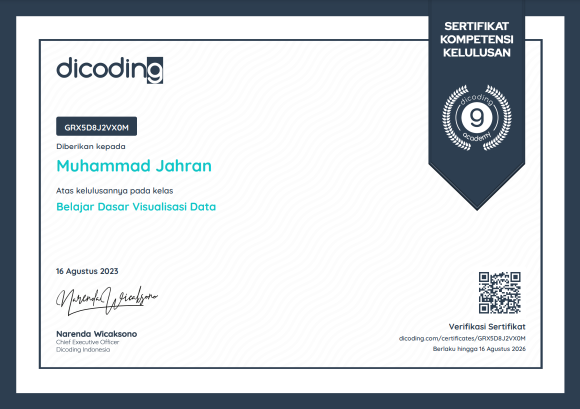
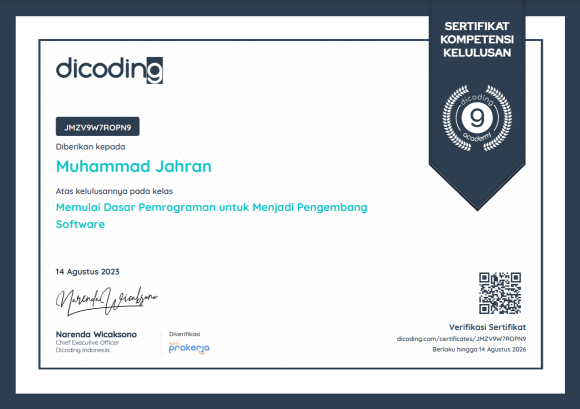
update

diff --git a/index.html b/index.html
@@ -75,13 +75,15 @@
 
                     <div class="tab-contents active-tab" id="skills">
                         <ul>
-                            <li><span>HTML</span><br>Coming Soon</li>
-                            <li><span>CSS</span><br>Coming Soon</li>
+                            <li><span>HTML</span></li>
+                            <li><span>CSS</span></li>
                         </ul>
                     </div>
 
                     <div class="tab-contents" id="experience">
-                        <h3>Coming Soon</h3>
+                        <ul>
+                            <li><span>IDN Mengajar</span><br>SMK Taruna Bangsa Bekasi</li>
+                        </ul>
                     </div>
 
                     <div class="tab-contents" id="school">
@@ -105,24 +107,31 @@
             <h2 class="cer">My Certificate</h2>
             <div class="crtf-list">
                 <div class="crtf">
-                    <img src="assets/images/Logic.png">
+                    <img src="assets/images/PLI.png">
                     <div class="layer">
-                        <h3><span class="color">P</span>rogramming Logic</h3>
-                        <p>I got a Programming Logic<br>certificate from Dicoding</p>
+                        <h3><span class="color">P</span>rogramming Logic Introduction</h3>
+                        <p>I got a Programming Logic Introduction<br>certificate from Dicoding</p>
                     </div>
                 </div>
                 <div class="crtf">
                     <img src="assets/images/Software.png">
                     <div class="layer">
-                        <h3><span class="color">D</span>ata Visualization</h3>
-                        <p>I got a Data Visualization<br>certificate from Dicoding</p>
+                        <h3><span class="color">S</span>oftware Developer</h3>
+                        <p>I got a Software Developer<br>certificate from Dicoding</p>
                     </div>
                 </div>
                 <div class="crtf">
-                    <img src="assets/images/VD.png">
+                    <img src="assets/images/Basic Website Programming.png">
                     <div class="layer">
-                        <h3><span class="color">S</span>oftware Developer</h3>
-                        <p>I got a Software Developer<br>certificate from Dicoding</p>
+                        <h3><span class="color">B</span>asic Web Programming</h3>
+                        <p>I got a Basic Web Programming<br>certificate from Dicoding</p>
+                    </div>
+                </div>
+                <div class="crtf">
+                    <img src="assets/images/Visual.png">
+                    <div class="layer">
+                        <h3><span class="color">B</span>asic Data Visualization</h3>
+                        <p>I got a Basic Data Visualization<br>certificate from Dicoding</p>
                     </div>
                 </div>
             </div>

diff --git a/assets/css/portofolio.css b/assets/css/portofolio.css
@@ -514,7 +514,7 @@ span.color {
 
 .crtf-list {
     display: grid;
-    grid-template-columns: repeat(auto-fit, minmax(250px, 1fr));
+    grid-template-columns: repeat(3, 50fr);
     grid-gap: 40px;
     margin-top: 50px;
 }
